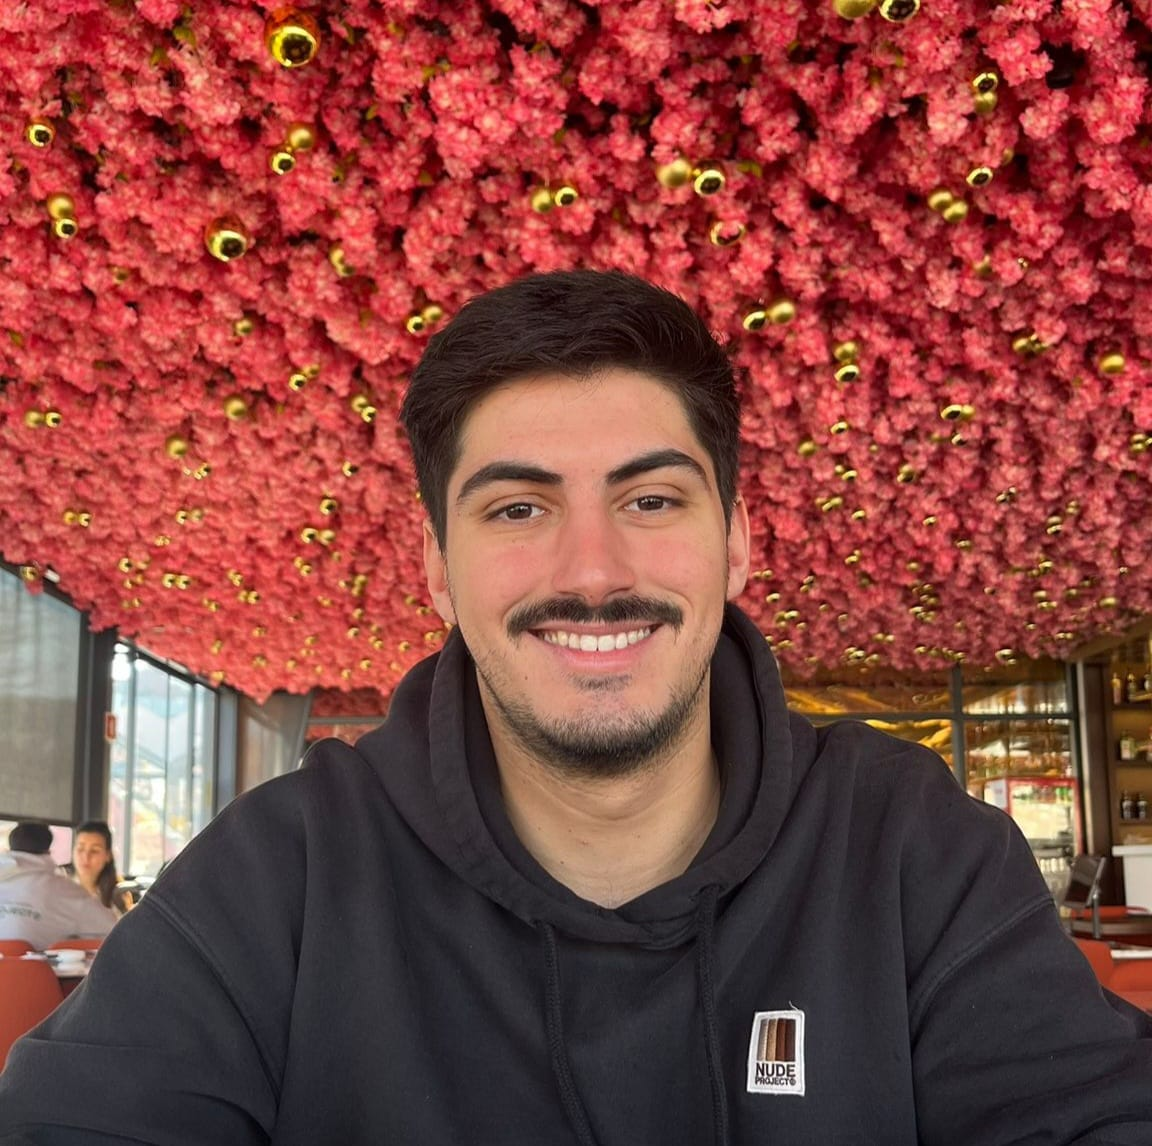
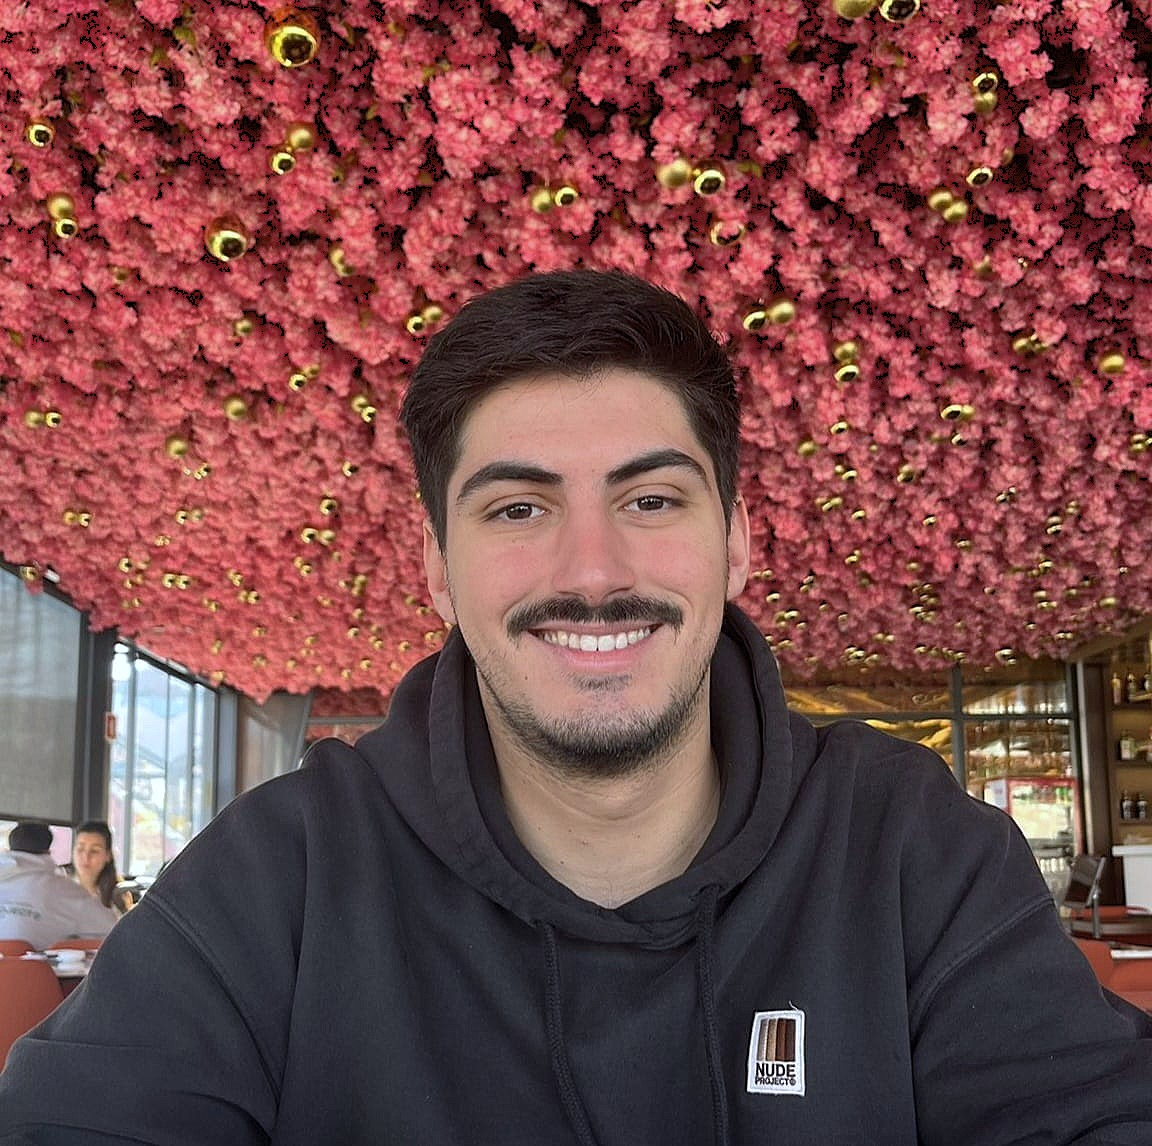
FIM

diff --git a/script.js b/script.js
@@ -23,6 +23,7 @@ const translations = {
         "about-text-p6": "Estou sempre disponível para aprender, crescer e abraçar novas experiências que contribuam para o meu desenvolvimento pessoal e profissional.",
         "about-cv": "Descarregar CV (PDF)",
         "cv-file": "CV Português.pdf",
+        "video-src": "https://youtube.com/embed/UmHi-4WTIXk",
         "skills-title": "Competências",
         "skills-backend": "Backend",
         "skills-frontend": "Frontend & Dados",
@@ -99,6 +100,7 @@ const translations = {
         "about-text-p6": "I am always eager to learn, grow, and embrace new experiences that contribute to my personal and professional development.",
         "about-cv": "Download CV (PDF)",
         "cv-file": "CV Inglês.pdf",
+        "video-src": "https://youtube.com/embed/mvprc_IAmPo",
         "skills-title": "Skills",
         "skills-backend": "Backend",
         "skills-frontend": "Frontend & Data",
@@ -172,31 +174,41 @@ let currentLang = 'pt';
 const langToggle = document.getElementById('lang-toggle');
 
 function atualizarIdioma() {
-    // MODIFICAÇÃO AQUI: Mostra o idioma oposto (o destino do clique)
+    // 1. Atualiza o texto do botão de alternância (mostra o idioma oposto ao atual)
     if (langToggle) {
         langToggle.innerText = currentLang === 'pt' ? 'EN' : 'PT';
     }
     
+    // 2. Atualiza o link de download do CV correspondente ao idioma
     const cvBtn = document.getElementById('cv-btn');
     if (cvBtn && translations[currentLang]["cv-file"]) {
         cvBtn.setAttribute('href', translations[currentLang]["cv-file"]);
     }
 
+    // 3. Atualiza o iframe do vídeo (Português ou Inglês)
+    const videoIframe = document.getElementById('portfolio-video');
+    if (videoIframe && translations[currentLang]["video-src"]) {
+        videoIframe.setAttribute('src', translations[currentLang]["video-src"]);
+    }
+
+    // 4. Traduz todos os elementos HTML que contêm o atributo [data-key]
     document.querySelectorAll('[data-key]').forEach(element => {
         const key = element.getAttribute('data-key');
         if (translations[currentLang][key]) {
             const icon = element.querySelector('i');
             if (icon) {
+                // Se o elemento tiver um ícone do FontAwesome, preserva o ícone e altera apenas o texto
                 element.innerHTML = '';
                 element.appendChild(icon);
                 element.innerHTML += ' ' + translations[currentLang][key];
             } else {
+                // Caso contrário, substitui diretamente o conteúdo de texto/HTML
                 element.innerHTML = translations[currentLang][key];
             }
         }
     });
 
-    // Atualiza o texto do explorador se o elemento estiver no DOM
+    // 5. Atualiza o texto de introdução do explorador de interesses (Workspace)
     const workspaceIntroEl = document.getElementById('workspace-intro');
     if (workspaceIntroEl && typeof currentFolderKey !== 'undefined' && folderIntros[currentLang]) {
         const targetKey = folderIntros[currentLang][currentFolderKey] ? currentFolderKey : 'about';

diff --git a/index.html b/index.html
@@ -77,7 +77,7 @@
         <div class="video-section">
             <div class="video-responsive">
                 <iframe 
-                    src="https://www.youtube.com/embed/INSERE_AQUI_O_ID_DO_VIDEO" 
+                    id="portfolio-video"
                     title="YouTube video player" 
                     frameborder="0" 
                     allow="accelerometer; autoplay; clipboard-write; encrypted-media; gyroscope; picture-in-picture; web-share" 